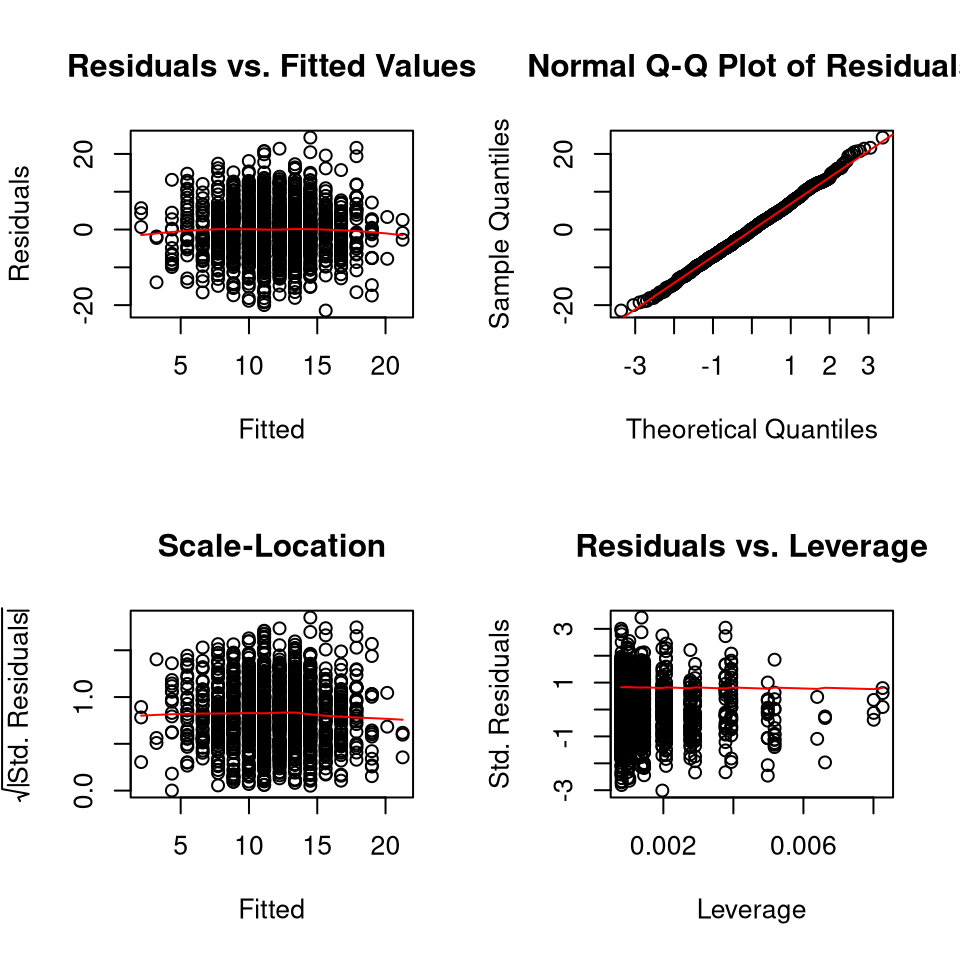
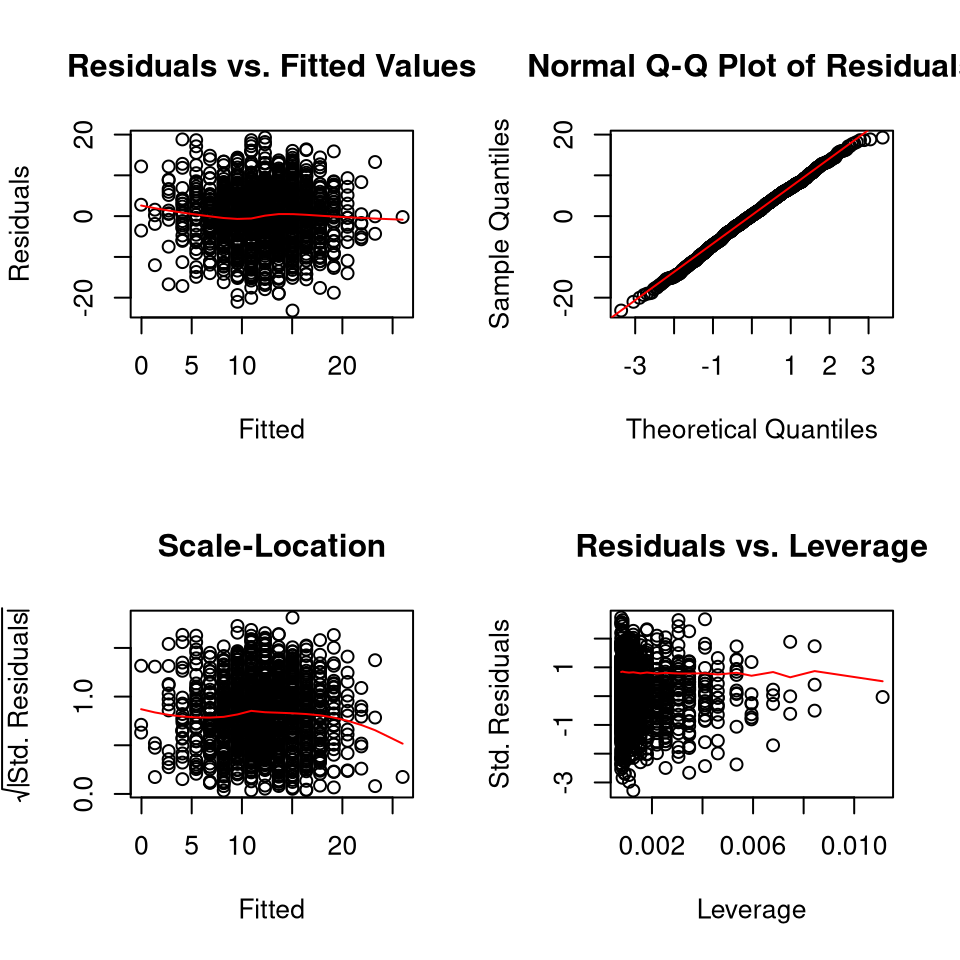
Automated build.

diff --git a/docs/articles/tests/test-simple-population-example.html b/docs/articles/tests/test-simple-population-example.html
@@ -129,14 +129,14 @@
 <td align="left"><code>beta1</code></td>
 <td align="left">Intercept</td>
 <td align="left"><span class="math inline">\(\beta_1\)</span></td>
-<td align="right">-4.723353</td>
+<td align="right">-2.998755</td>
 </tr>
 <tr class="even">
 <td align="left"><code>mux</code></td>
 <td align="left">Mean of <span class="math inline">\(x\)</span>
 </td>
 <td align="left"><span class="math inline">\(\mu_x\)</span></td>
-<td align="right">13.034542</td>
+<td align="right">13.173978</td>
 </tr>
 </tbody>
 </table>
@@ -153,25 +153,25 @@
 <td align="left"><code>beta2</code></td>
 <td align="left">Slope</td>
 <td align="left"><span class="math inline">\(\beta_2\)</span></td>
-<td align="right">1.271663</td>
+<td align="right">1.186274</td>
 </tr>
 <tr class="even">
 <td align="left"><code>sigma2epsilon</code></td>
 <td align="left">Variance of <span class="math inline">\(\varepsilon\)</span>
 </td>
 <td align="left"><span class="math inline">\(\sigma_{\varepsilon}^{2}\)</span></td>
-<td align="right">49.961613</td>
+<td align="right">48.666496</td>
 </tr>
 <tr class="odd">
 <td align="left"><code>sigma2x</code></td>
 <td align="left">Variance of <span class="math inline">\(x\)</span>
 </td>
 <td align="left"><span class="math inline">\(\sigma_{x}^{2}\)</span></td>
-<td align="right">7.717501</td>
+<td align="right">8.175742</td>
 </tr>
 </tbody>
 </table>
-<p>There are times when the intercept does not lend to a meaningful interpretation. A negative wage corresponding to zero years of education does not really make a lot of sense. The value that is interesting in this case is the slope. The slope represents 1.2716628 US dollar increase in hourly wages given 1 additional year of education.</p>
+<p>There are times when the intercept does not lend to a meaningful interpretation. A negative wage corresponding to zero years of education does not really make a lot of sense. The value that is interesting in this case is the slope. The slope represents 1.1862736 US dollar increase in hourly wages given 1 additional year of education.</p>
 <p>The expected values are derived using <code><a href="../../reference/mutheta.html">jeksterslabRlinreg::mutheta()</a></code>.</p>
 <div class="sourceCode" id="cb2"><html><body><pre class="r"><span class="no">result_mutheta</span> <span class="kw">&lt;-</span> <span class="kw pkg">jeksterslabRlinreg</span><span class="kw ns">::</span><span class="fu"><a href="../../reference/mutheta.html">mutheta</a></span>(
   <span class="kw">beta</span> <span class="kw">=</span> <span class="no">beta</span>,
@@ -186,11 +186,11 @@
 <tbody>
 <tr class="odd">
 <td align="left">y</td>
-<td align="right">11.85219</td>
+<td align="right">12.62919</td>
 </tr>
 <tr class="even">
 <td align="left">x</td>
-<td align="right">13.03454</td>
+<td align="right">13.17398</td>
 </tr>
 </tbody>
 </table>
@@ -210,13 +210,13 @@
 <tbody>
 <tr class="odd">
 <td align="left">y</td>
-<td align="right">62.441786</td>
-<td align="right">9.814059</td>
+<td align="right">60.171769</td>
+<td align="right">9.698667</td>
 </tr>
 <tr class="even">
 <td align="left">x</td>
-<td align="right">9.814059</td>
-<td align="right">7.717501</td>
+<td align="right">9.698667</td>
+<td align="right">8.175742</td>
 </tr>
 </tbody>
 </table>
@@ -227,21 +227,21 @@
   <span class="kw">sigmayX</span> <span class="kw">=</span> <span class="no">sigmayx</span>
 )
 <span class="no">result_slopes</span>
-<span class="co">#&gt; [1] 1.271663</span>
+<span class="co">#&gt; [1] 1.186274</span>
 <span class="no">result_intercept</span> <span class="kw">&lt;-</span> <span class="kw pkg">jeksterslabRlinreg</span><span class="kw ns">::</span><span class="fu"><a href="../../reference/intercept.html">intercept</a></span>(
   <span class="kw">slopes</span> <span class="kw">=</span> <span class="no">result_slopes</span>,
   <span class="kw">muy</span> <span class="kw">=</span> <span class="no">muy</span>,
   <span class="kw">muX</span> <span class="kw">=</span> <span class="no">mux</span>
 )
 <span class="no">result_intercept</span>
-<span class="co">#&gt; [1] -4.723353</span></pre></body></html></div>
+<span class="co">#&gt; [1] -2.998755</span></pre></body></html></div>
 <p>Standardized slopes can also be obtained using <code><a href="../../reference/slopesprime.html">jeksterslabRlinreg::slopesprime()</a></code></p>
 <div class="sourceCode" id="cb5"><html><body><pre class="r"><span class="no">result_slopesprime</span> <span class="kw">&lt;-</span> <span class="kw pkg">jeksterslabRlinreg</span><span class="kw ns">::</span><span class="fu"><a href="../../reference/slopesprime.html">slopesprime</a></span>(
   <span class="kw">RX</span> <span class="kw">=</span> <span class="fu"><a href="https://rdrr.io/r/base/MathFun.html">sqrt</a></span>(<span class="no">sigma2x</span>),
   <span class="kw">ryX</span> <span class="kw">=</span> <span class="no">ryx</span>
 )
 <span class="no">result_slopesprime</span>
-<span class="co">#&gt; [1] 0.160929</span></pre></body></html></div>
+<span class="co">#&gt; [1] 0.1529285</span></pre></body></html></div>
 <p>The error variance can also be derived with the available information using <code>jeksterslabRlinreg::sigma2()</code> .</p>
 <div class="sourceCode" id="cb6"><html><body><pre class="r"><span class="no">result_sigma2epsilon</span> <span class="kw">&lt;-</span> <span class="fu"><a href="../../reference/sigma2epsilon.html">sigma2epsilon</a></span>(
   <span class="kw">slopes</span> <span class="kw">=</span> <span class="no">beta2</span>,
@@ -250,8 +250,8 @@
   <span class="kw">SigmaX</span> <span class="kw">=</span> <span class="no">sigma2x</span>
 )
 <span class="no">result_sigma2epsilon</span>
-<span class="co">#&gt;          </span>
-<span class="co">#&gt; 49.96161</span></pre></body></html></div>
+<span class="co">#&gt;         </span>
+<span class="co">#&gt; 48.6665</span></pre></body></html></div>
 <div class="sourceCode" id="cb7"><html><body><pre class="r"><span class="fu">context</span>(<span class="st">"Test simple-regression-ram"</span>)
 <span class="fu">test_that</span>(<span class="st">"result_mutheta"</span>, {
   <span class="kw">for</span> (<span class="no">i</span> <span class="kw">in</span> <span class="fl">1</span>:<span class="fu"><a href="https://rdrr.io/r/base/nrow.html">nrow</a></span>(<span class="no">result_mutheta</span>)) {

diff --git a/docs/articles/tests/test-linreg-estimation-linreg.html b/docs/articles/tests/test-linreg-estimation-linreg.html
@@ -259,41 +259,38 @@
 <span class="co">#&gt; </span>
 <span class="co">#&gt; Residual standard error: 6.508 on 1283 degrees of freedom</span>
 <span class="co">#&gt; Multiple R-squared:  0.3233, Adjusted R-squared:  0.3207 </span>
-<span class="co">#&gt; F-statistic: 122.6 on 5 and 1283 DF,  p-value: &lt; 2.2e-16</span></pre></body></html></div>
-</div>
-<div id="lavaansem-function" class="section level2">
-<h2 class="hasAnchor">
-<a href="#lavaansem-function" class="anchor"></a><code>lavaan::sem()</code> function</h2>
-<p>Linear regression in SEM</p>
-<div class="sourceCode" id="cb8"><html><body><pre class="r"><span class="no">model</span> <span class="kw">&lt;-</span> <span class="fu"><a href="https://rdrr.io/r/base/c.html">c</a></span>(
-  <span class="no">wages</span> ~ <span class="no">gender</span> + <span class="no">race</span> + <span class="no">union</span> + <span class="no">education</span> + <span class="no">experience</span>
-)</pre></body></html></div>
-<div id="wishart-likelihood-unbiased" class="section level3">
-<h3 class="hasAnchor">
-<a href="#wishart-likelihood-unbiased" class="anchor"></a>Wishart Likelihood (Unbiased)</h3>
-<div class="sourceCode" id="cb9"><html><body><pre class="r"><span class="no">lavobj</span> <span class="kw">&lt;-</span> <span class="kw pkg">lavaan</span><span class="kw ns">::</span><span class="fu"><a href="https://rdrr.io/pkg/lavaan/man/sem.html">sem</a></span>(
-  <span class="kw">model</span> <span class="kw">=</span> <span class="no">model</span>,
-  <span class="kw">data</span> <span class="kw">=</span> <span class="kw pkg">jeksterslabRdatarepo</span><span class="kw ns">::</span><span class="no"><a href="https://rdrr.io/pkg/jeksterslabRdatarepo/man/wages.html">wages</a></span>,
-  <span class="kw">likelihood</span> <span class="kw">=</span> <span class="st">"wishart"</span>
-)
-<span class="co">#&gt; Error in lavaan::lavaan(model = model, data = jeksterslabRdatarepo::wages, : lavaan ERROR: model is a list, but not a parameterTable?</span>
-<span class="co">#&gt;   lavaan  NOTE: missing column(s) in parameter table: [lhs, op, rhs, free]</span>
-<span class="fu"><a href="https://rdrr.io/r/base/summary.html">summary</a></span>(<span class="no">lavobj</span>)
-<span class="co">#&gt; Error in h(simpleError(msg, call)): error in evaluating the argument 'object' in selecting a method for function 'summary': object 'lavobj' not found</span></pre></body></html></div>
-</div>
-<div id="normal-likelihood-biased" class="section level3">
-<h3 class="hasAnchor">
-<a href="#normal-likelihood-biased" class="anchor"></a>Normal Likelihood (Biased)</h3>
-<div class="sourceCode" id="cb10"><html><body><pre class="r"><span class="no">lavobj</span> <span class="kw">&lt;-</span> <span class="kw pkg">lavaan</span><span class="kw ns">::</span><span class="fu"><a href="https://rdrr.io/pkg/lavaan/man/sem.html">sem</a></span>(
-  <span class="kw">model</span> <span class="kw">=</span> <span class="no">model</span>,
-  <span class="kw">data</span> <span class="kw">=</span> <span class="kw pkg">jeksterslabRdatarepo</span><span class="kw ns">::</span><span class="no"><a href="https://rdrr.io/pkg/jeksterslabRdatarepo/man/wages.html">wages</a></span>,
-  <span class="kw">likelihood</span> <span class="kw">=</span> <span class="st">"normal"</span>
-)
-<span class="co">#&gt; Error in lavaan::lavaan(model = model, data = jeksterslabRdatarepo::wages, : lavaan ERROR: model is a list, but not a parameterTable?</span>
-<span class="co">#&gt;   lavaan  NOTE: missing column(s) in parameter table: [lhs, op, rhs, free]</span>
-<span class="fu"><a href="https://rdrr.io/r/base/summary.html">summary</a></span>(<span class="no">lavobj</span>)
-<span class="co">#&gt; Error in h(simpleError(msg, call)): error in evaluating the argument 'object' in selecting a method for function 'summary': object 'lavobj' not found</span></pre></body></html></div>
-</div>
+<span class="co">#&gt; F-statistic: 122.6 on 5 and 1283 DF,  p-value: &lt; 2.2e-16</span>
+<span class="co">#</span>
+<span class="co">## `lavaan::sem()` function</span>
+<span class="co"># </span>
+<span class="co"># Linear regression in SEM</span>
+<span class="co"># </span>
+<span class="co">#</span>
+<span class="co">#model &lt;- c(</span>
+<span class="co">#  wages ~ gender + race + union + education + experience</span>
+<span class="co">#)</span>
+<span class="co">#</span>
+<span class="co"># Build errors with lavaan dependency</span>
+<span class="co">#</span>
+<span class="co">### Wishart Likelihood (Unbiased)</span>
+<span class="co"># </span>
+<span class="co">#</span>
+<span class="co">#lavobj &lt;- lavaan::sem(</span>
+<span class="co">#  model = model,</span>
+<span class="co">#  data = jeksterslabRdatarepo::wages,</span>
+<span class="co">#  likelihood = "wishart"</span>
+<span class="co">#)</span>
+<span class="co">#summary(lavobj)</span>
+<span class="co"># </span>
+<span class="co">### Normal Likelihood (Biased)</span>
+<span class="co"># </span>
+<span class="co">#</span>
+<span class="co">#lavobj &lt;- lavaan::sem(</span>
+<span class="co">#  model = model,</span>
+<span class="co">#  data = jeksterslabRdatarepo::wages,</span>
+<span class="co">#  likelihood = "normal"</span>
+<span class="co">#)</span>
+<span class="co">#summary(lavobj)</span></pre></body></html></div>
 </div>
   </div>
 

diff --git a/docs/articles/jeksterslabRlinreg.html b/docs/articles/jeksterslabRlinreg.html
@@ -105,19 +105,19 @@
 <a href="#data" class="anchor"></a>Data</h3>
 <p>In this hypothetical example, we are interested in the association between wages and education. The regressor variable is years of education. The regressand variable is hourly wage in US dollars.</p>
 <pre><code>#&gt;      constant education
-#&gt; [1,]        1        11
-#&gt; [2,]        1        15
+#&gt; [1,]        1         9
+#&gt; [2,]        1        14
 #&gt; [3,]        1        15
-#&gt; [4,]        1        11
-#&gt; [5,]        1         8
-#&gt; [6,]        1        15
+#&gt; [4,]        1        13
+#&gt; [5,]        1        14
+#&gt; [6,]        1        12
 #&gt;          wages
-#&gt; [1,]  9.790432
-#&gt; [2,] 18.140379
-#&gt; [3,] 14.086514
-#&gt; [4,] -2.414173
-#&gt; [5,]  4.046642
-#&gt; [6,] 18.965834</code></pre>
+#&gt; [1,]  9.180623
+#&gt; [2,] 13.418780
+#&gt; [3,]  5.727348
+#&gt; [4,]  4.594453
+#&gt; [5,] 16.251503
+#&gt; [6,] 11.447440</code></pre>
 </div>
 <div id="jeksterslabrlinreglinreg" class="section level3">
 <h3 class="hasAnchor">
@@ -151,32 +151,32 @@
 <span class="co">#&gt; </span>
 <span class="co">#&gt; Model Assessment:</span>
 <span class="co">#&gt;                   Value</span>
-<span class="co">#&gt; RSS            65210.85</span>
-<span class="co">#&gt; MSE               50.59</span>
-<span class="co">#&gt; RMSE               7.11</span>
-<span class="co">#&gt; R-squared          0.16</span>
-<span class="co">#&gt; Adj. R-squared     0.16</span>
+<span class="co">#&gt; RSS            64136.17</span>
+<span class="co">#&gt; MSE               49.76</span>
+<span class="co">#&gt; RMSE               7.05</span>
+<span class="co">#&gt; R-squared          0.23</span>
+<span class="co">#&gt; Adj. R-squared     0.23</span>
 <span class="co">#&gt; </span>
 <span class="co">#&gt; ANOVA Table:</span>
 <span class="co">#&gt;         df       SS          MS        F            p</span>
-<span class="co">#&gt; Model    1 12456.08 12456.07947 245.8329 7.773636e-51</span>
-<span class="co">#&gt; Error 1287 65210.85    50.66888       NA           NA</span>
-<span class="co">#&gt; Total 1288 77666.93          NA       NA           NA</span>
+<span class="co">#&gt; Model    1 18919.45 18919.45465 379.6507 2.654434e-74</span>
+<span class="co">#&gt; Error 1287 64136.17    49.83385       NA           NA</span>
+<span class="co">#&gt; Total 1288 83055.62          NA       NA           NA</span>
 <span class="co">#&gt; </span>
 <span class="co">#&gt; Coefficients:</span>
 <span class="co">#&gt;                coef         se         t            p std. coef</span>
-<span class="co">#&gt; Intercept -2.401586 0.92469602 -2.597163 9.506932e-03 0.0000000</span>
-<span class="co">#&gt; education  1.126289 0.07183398 15.679060 7.773636e-51 0.4004724</span>
+<span class="co">#&gt; Intercept -5.514197 0.92029577 -5.991766 2.690500e-09 0.0000000</span>
+<span class="co">#&gt; education  1.369988 0.07031125 19.484626 2.654434e-74 0.4772762</span>
 <span class="co">#&gt; </span>
 <span class="co">#&gt; Confidence Intervals:</span>
-<span class="co">#&gt;              ci_0.05     ci_0.5     ci_2.5    ci_97.5     ci_99.5  ci_99.95</span>
-<span class="co">#&gt; Intercept -5.4513281 -4.7869824 -4.2156628 -0.5875089 -0.01618932 0.6481564</span>
-<span class="co">#&gt; education  0.8893734  0.9409824  0.9853647  1.2672138  1.31159610 1.3632051</span>
+<span class="co">#&gt;             ci_0.05    ci_0.5    ci_2.5   ci_97.5   ci_99.5  ci_99.95</span>
+<span class="co">#&gt; Intercept -8.549427 -7.888242 -7.319641 -3.708752 -3.140151 -2.478967</span>
+<span class="co">#&gt; education  1.138095  1.188610  1.232051  1.507926  1.551367  1.601882</span>
 <span class="co">#&gt; </span>
 <span class="co">#&gt; Means and Standard Deviations:</span>
 <span class="co">#&gt;               Mean       SD</span>
-<span class="co">#&gt; wages     11.75960 7.765334</span>
-<span class="co">#&gt; education 12.57331 2.761104</span></pre></body></html></div>
+<span class="co">#&gt; wages     12.00338 8.030204</span>
+<span class="co">#&gt; education 12.78666 2.797560</span></pre></body></html></div>
 <p><img src="jeksterslabRlinreg_files/figure-html/unnamed-chunk-4-1.png" width="100%"><img src="jeksterslabRlinreg_files/figure-html/unnamed-chunk-4-2.png" width="100%"></p>
 </div>
 </div>

diff --git a/docs/articles/tests/test-linreg-estimation-ols-example.html b/docs/articles/tests/test-linreg-estimation-ols-example.html
@@ -343,12 +343,12 @@
   <span class="kw">betahat</span> <span class="kw">=</span> <span class="kw pkg">jeksterslabRlinreg</span><span class="kw ns">::</span><span class="fu"><a href="../../reference/betahat.html">betahat</a></span>(<span class="kw">X</span> <span class="kw">=</span> <span class="no">X</span>, <span class="kw">y</span> <span class="kw">=</span> <span class="no">y</span>)
 )
 <span class="co">#&gt; Unit: microseconds</span>
-<span class="co">#&gt;         expr     min       lq       mean   median        uq      max neval</span>
-<span class="co">#&gt;           lm 888.899 950.0585 1059.64054 982.7680 1166.6965 3478.233   100</span>
-<span class="co">#&gt;  betahatnorm  43.506  49.2240   54.20965  53.1305   58.9150   80.451   100</span>
-<span class="co">#&gt;    betahatqr 156.381 167.6630  231.32532 181.3570  324.2975  362.001   100</span>
-<span class="co">#&gt;   betahatsvd 161.088 172.5715  226.14841 183.6445  241.2540 2358.745   100</span>
-<span class="co">#&gt;      betahat  51.943  60.9635   66.74856  65.8105   71.8275  114.355   100</span></pre></body></html></div>
+<span class="co">#&gt;         expr     min       lq       mean    median        uq      max neval</span>
+<span class="co">#&gt;           lm 897.208 966.1690 1256.86699 1098.1775 1272.6305 7413.602   100</span>
+<span class="co">#&gt;  betahatnorm  43.580  48.7845   60.41791   56.2015   62.8110  124.334   100</span>
+<span class="co">#&gt;    betahatqr 151.565 170.9275  246.96856  201.5055  330.2715  422.521   100</span>
+<span class="co">#&gt;   betahatsvd 159.664 175.6800  223.44821  208.7745  257.1750  401.758   100</span>
+<span class="co">#&gt;      betahat  51.965  61.9895   72.97340   67.4430   76.5340  173.487   100</span></pre></body></html></div>
 <div class="sourceCode" id="cb16"><html><body><pre class="r"><span class="fu">context</span>(<span class="st">"Test linreg-estimation-ols"</span>)
 <span class="fu">test_that</span>(<span class="st">"results_betahat"</span>, {
   <span class="no">result_lm</span> <span class="kw">&lt;-</span> <span class="fu"><a href="https://rdrr.io/r/base/vector.html">as.vector</a></span>(<span class="fu"><a href="https://rdrr.io/r/base/unname.html">unname</a></span>(<span class="no">result_lm</span>))
